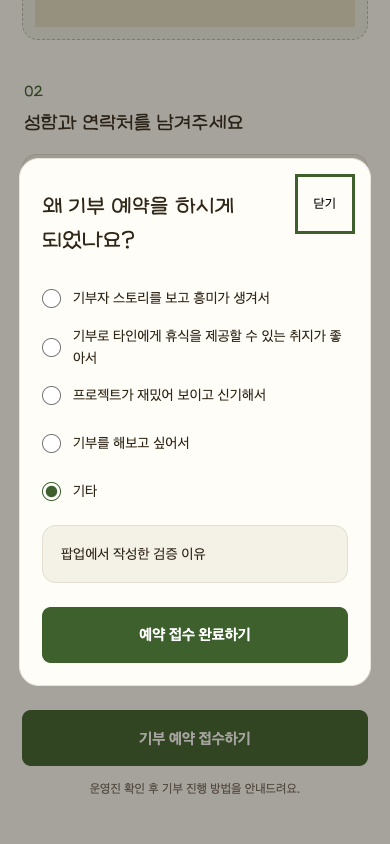
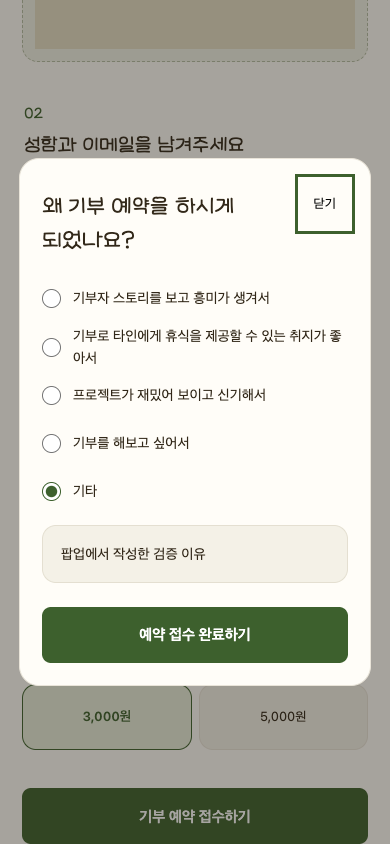
[feat] 이야기 작성 안내와 이메일 연락처 적용

Changed region(s): [[0.0308, 0.8009, 0.9538, 1.0], [0.0615, 0.0924, 0.6154, 0.1848], [0.0923, 0.0308, 0.9231, 0.0616]]

diff --git a/apps/web/src/components/reservation-form.tsx b/apps/web/src/components/reservation-form.tsx
@@ -1,7 +1,6 @@
 "use client";
 /* eslint-disable @next/next/no-img-element */
 import { ActivityTracker } from "./activity-tracker";
-import Link from "next/link";
 import { useEffect, useRef, useState } from "react";
 import { activityReporter, trackActivity } from "@/lib/activity-client";
 import { byteLength, STORY_MAX_BYTES } from "@/lib/story";
@@ -64,14 +63,14 @@ export function ReservationForm({ sourceStoryId }: { sourceStoryId?: string }) {
     } catch (e) { reportActivity("reservation_failure"); setReasonError(e instanceof Error ? e.message : "예약을 접수하지 못했어요. 입력한 내용은 유지됩니다. 다시 시도해주세요."); }
     finally { locked.current = false; setBusy(false); }
   }
-  if (done) return <section className="reservation-success"><ActivityTracker storyId={sourceStoryId} /><span className="eyebrow">당신의 마음을 잘 받았어요</span><h1>기부 예약이 접수됐어요.</h1><p>남겨주신 이야기는 운영진이 확인할게요.<br />결제는 진행되지 않았으며,<br />기부 진행 방법은 남겨주신 휴대폰번호로 안내드릴게요.</p><Link href={sourceStoryId ? `/stories/${sourceStoryId}` : "/"} className="button primary">이야기로 돌아가기</Link></section>;
-  return <section className="reservation-page"><ActivityTracker storyId={sourceStoryId} /><Link className="back-link" href={sourceStoryId ? `/stories/${sourceStoryId}` : "/"}>← 이야기로 돌아가기</Link><div className="reservation-heading"><span className="eyebrow">다음 사람의 쉼을 위해</span><h1>기부 예약</h1><p>당신의 이야기도 한 자리 펼쳐주세요.<br />지금은 예약만 접수하며 결제는 진행되지 않아요.</p></div>
+  if (done) return <section className="reservation-success"><ActivityTracker storyId={sourceStoryId} /><span className="eyebrow">당신의 마음을 잘 받았어요</span><h1>기부 예약이 접수됐어요.</h1><p>남겨주신 이야기는 운영진이 확인할게요.<br />결제는 진행되지 않았어요.</p><a href={sourceStoryId ? `/stories/${sourceStoryId}` : "/"} className="button primary">이야기로 돌아가기</a></section>;
+  return <section className="reservation-page"><ActivityTracker storyId={sourceStoryId} /><a className="back-link" href={sourceStoryId ? `/stories/${sourceStoryId}` : "/"}>← 이야기로 돌아가기</a><div className="reservation-heading"><span className="eyebrow">다음 사람의 쉼을 위해</span><h1>기부 예약</h1><p>당신의 이야기도 한 자리 펼쳐주세요.<br />지금은 예약만 접수하며 결제는 진행되지 않아요.</p></div>
     <form ref={mainForm} onSubmit={askReason} onChange={() => { requestId.current = ""; }}><fieldset disabled={busy} className="reservation-fields">
-      <fieldset className="reservation-question"><legend><span>01</span> 돗자리에 남길 스토리를 작성해주세요</legend><label><span className="sr-only">제목</span><input name="title" maxLength={80} placeholder="제목" required /></label><label><span className="sr-only">스토리</span><textarea aria-label="스토리" name="story" value={text} onChange={(e) => setText(e.target.value)} placeholder="당신의 이야기를 들려주세요" rows={5} required aria-describedby="reservation-bytes" /><small id="reservation-bytes" className={`byte-counter ${byteLength(text) > STORY_MAX_BYTES ? "error-message" : ""}`}>{byteLength(text)} / {STORY_MAX_BYTES}바이트</small></label><label className="photo-upload">{preview ? <img src={preview} alt="선택한 사진 미리보기" /> : <span className="photo-upload-copy"><strong>＋</strong>사진 추가<small>JPG, PNG, WebP · 한 장 · 최대 5MB</small></span>}<span className="sr-only">사진 추가</span><input aria-label="사진 추가" name="photo" type="file" accept="image/jpeg,image/png,image/webp" required onChange={(e) => { const file = e.target.files?.[0]; if (file) trackActivity("photo_selected"); setPreview(file ? URL.createObjectURL(file) : ""); }} /></label></fieldset>
-      <fieldset className="reservation-question"><legend><span>02</span> 성함과 연락처를 남겨주세요</legend><label><span className="sr-only">성함</span><input name="displayName" autoComplete="name" maxLength={40} placeholder="성함" value={isAnonymous ? "익명" : displayName} onChange={(e) => setDisplayName(e.target.value)} disabled={isAnonymous} required={!isAnonymous} /></label><label className="anonymous-option"><input type="checkbox" name="isAnonymous" value="true" checked={isAnonymous} onChange={(e) => setIsAnonymous(e.target.checked)} />익명</label><label><span className="sr-only">휴대폰번호</span><input name="phone" type="tel" autoComplete="tel" maxLength={20} placeholder="휴대폰번호" required /></label></fieldset>
+      <fieldset className="reservation-question"><legend><span>01</span> 돗자리에 남길 이야기를 들려주세요</legend><div id="story-guidance" className="story-guidance"><p>어떤 이야기를 담을지 고민된다면 아래 질문을 천천히 떠올려보세요. 꼭 질문에 맞추지 않아도 괜찮아요.</p><ul><li>고마움을 전하거나 기억하고 싶은 대상이 있나요?</li><li>다른 사람들과 나누고 싶은 나만의 이야기가 있나요?</li><li>이 돗자리를 펼칠 사람에게 어떤 마음을 건네고 싶나요?</li></ul></div><label><span className="sr-only">마음을 담은 한 줄</span><input name="title" maxLength={80} placeholder="마음을 담은 한 줄" required /></label><label><span className="sr-only">스토리</span><textarea aria-label="스토리" name="story" value={text} onChange={(e) => setText(e.target.value)} placeholder="당신의 이야기를 들려주세요" rows={5} required aria-describedby="story-guidance reservation-bytes" /><small id="reservation-bytes" className={`byte-counter ${byteLength(text) > STORY_MAX_BYTES ? "error-message" : ""}`}>{byteLength(text)} / {STORY_MAX_BYTES}바이트</small></label><label className="photo-upload">{preview ? <img src={preview} alt="선택한 사진 미리보기" /> : <span className="photo-upload-copy"><strong>＋</strong>사진 추가<small>JPG, PNG, WebP · 한 장 · 최대 5MB</small></span>}<span className="sr-only">사진 추가</span><input aria-label="사진 추가" name="photo" type="file" accept="image/jpeg,image/png,image/webp" required onChange={(e) => { const file = e.target.files?.[0]; if (file) trackActivity("photo_selected"); setPreview(file ? URL.createObjectURL(file) : ""); }} /></label></fieldset>
+      <fieldset className="reservation-question"><legend><span>02</span> 성함과 이메일을 남겨주세요</legend><label><span className="sr-only">성함</span><input name="displayName" autoComplete="name" maxLength={40} placeholder="성함" value={isAnonymous ? "익명" : displayName} onChange={(e) => setDisplayName(e.target.value)} disabled={isAnonymous} required={!isAnonymous} /></label><label className="anonymous-option"><input type="checkbox" name="isAnonymous" value="true" checked={isAnonymous} onChange={(e) => setIsAnonymous(e.target.checked)} />익명</label><label><span className="sr-only">이메일</span><input name="email" type="email" autoComplete="email" maxLength={254} placeholder="이메일" required /></label></fieldset>
       <fieldset className="reservation-question"><legend><span>03</span> 결제방법을 선택해주세요</legend><p className="field-description">나중에 이용하고 싶은 방법을 선택해주세요.</p><div className="payment-options">{Object.entries(paymentMethods).map(([value, label]) => <label key={value}><input type="radio" name="paymentMethod" value={value} required /><span>{label}</span></label>)}</div></fieldset>
       <fieldset className="reservation-question"><legend><span>04</span> 결제예정 금액을 선택해주세요</legend><div className="payment-options amount-options">{reservationAmounts.map(amount => <label key={amount}><input name="amount" type="radio" value={amount} required /><span>{amount.toLocaleString("ko-KR")}원</span></label>)}</div></fieldset>
-      {error && <p role="alert" className="error-message">{error}</p>}<button className="button primary reservation-submit" onClick={() => trackActivity("reservation_submit_click")} disabled={busy || byteLength(text) > STORY_MAX_BYTES}>{busy ? "예약을 접수하는 중…" : "기부 예약 접수하기"}</button><p className="reservation-footnote">운영진 확인 후 기부 진행 방법을 안내드려요.</p>
+      {error && <p role="alert" className="error-message">{error}</p>}<button className="button primary reservation-submit" onClick={() => trackActivity("reservation_submit_click")} disabled={busy || byteLength(text) > STORY_MAX_BYTES}>{busy ? "예약을 접수하는 중…" : "기부 예약 접수하기"}</button><p className="reservation-footnote">예약한 이야기는 운영진이 확인해요.</p>
     </fieldset></form>
     <dialog ref={reasonDialog} className="reservation-reason-dialog" aria-labelledby="reservation-reason-title" onCancel={event => { if (locked.current) event.preventDefault(); }}>
       <div className="section-heading"><h2 id="reservation-reason-title">왜 기부 예약을 하시게 되었나요?</h2><button type="button" className="text-button" aria-label="예약 이유 질문 닫기" disabled={busy} onClick={() => reasonDialog.current?.close()}>닫기</button></div>

diff --git a/apps/web/tests/reservation.integration.ts b/apps/web/tests/reservation.integration.ts
@@ -11,11 +11,15 @@ test("private reservations are idempotent, admin-reviewed and never expose conta
   const photo = await sharp({ create: { width: 400, height: 300, channels: 3, background: "#eee5cb" } }).jpeg().toBuffer();
   function form(amount = "3000") {
     const f = new FormData();
-    for (const [key,value] of Object.entries({ id, displayName: "검증용 예약자", phone: "010-0000-9923", reason: "other", reasonOther: "통합 검증", title: "검증용 예약 제목", story: "가".repeat(333) + "a", paymentMethod: "easy", amount })) f.set(key,value);
+    for (const [key,value] of Object.entries({ id, email: "donor@example.test", displayName: "검증용 예약자", reason: "other", reasonOther: "통합 검증", title: "검증용 예약 제목", story: "가".repeat(333) + "a", paymentMethod: "easy", amount })) f.set(key,value);
     f.set("photo", new Blob([new Uint8Array(photo)], { type: "image/jpeg" }), "test.jpg"); return f;
   }
-  const send = (path: string, method: string, body?: BodyInit, auth = false) => fetch(base+path, { method, headers: { origin: base, ...(auth ? { cookie } : {}) }, body });
+  const send = (path: string, method: string, body?: BodyInit, auth = false) => fetch(base+path, { method, headers: { origin: base, "x-forwarded-for": "192.0.2.26", ...(auth ? { cookie } : {}) }, body });
   try {
+    for (const email of ["", "invalid"]) {
+      const invalid = form(); invalid.set("email", email);
+      assert.equal((await send("/api/reservations", "POST", invalid)).status, 400);
+    }
     const oversized = form(); oversized.set("story", "가".repeat(333) + "ab");
     assert.equal((await send("/api/reservations", "POST", oversized)).status, 400);
     const requests = await Promise.all([send("/api/reservations", "POST", form()), send("/api/reservations", "POST", form())]);
@@ -23,10 +27,14 @@ test("private reservations are idempotent, admin-reviewed and never expose conta
     assert.equal((await pool.query("SELECT count(*)::int AS count FROM mat_reservations WHERE id=$1",[id])).rows[0].count,1);
     assert.equal((await send("/api/reservations","POST",form("5000"))).status,409);
     for (const amount of ["", "7200"]) assert.equal((await send("/api/reservations", "POST", form(amount))).status, 400);
+    const changedEmail = form(); changedEmail.set("email", "changed@example.test");
+    assert.equal((await send("/api/reservations", "POST", changedEmail)).status, 409);
     const second = form("5000"); second.set("id", secondId);
+    second.set("phone", "010-0000-9923");
     assert.equal((await send("/api/reservations", "POST", second)).status, 201);
+    assert.deepEqual((await pool.query("SELECT phone,email FROM mat_reservations WHERE id=ANY($1::uuid[])", [[id, secondId]])).rows, [{ phone: null, email: "donor@example.test" }, { phone: null, email: "donor@example.test" }]);
     assert.deepEqual((await pool.query("SELECT amount FROM mat_reservations WHERE id=ANY($1::uuid[]) ORDER BY amount", [[id, secondId]])).rows.map(r => r.amount), [3000,5000]);
-    await pool.query("INSERT INTO mat_reservations(id,display_name,phone,reason,reason_other,title,story,photo,payment_method,amount) SELECT $1,display_name,phone,reason,reason_other,title,story,photo,payment_method,7200 FROM mat_reservations WHERE id=$2", [legacyId,id]);
+    await pool.query("INSERT INTO mat_reservations(id,display_name,phone,reason,reason_other,title,story,photo,payment_method,amount) SELECT $1,display_name,'01000009923',reason,reason_other,title,story,photo,payment_method,7200 FROM mat_reservations WHERE id=$2", [legacyId,id]);
     assert.equal((await fetch(base+`/api/admin/reservations/${id}/photo`)).status,401);
     assert.equal((await send(`/api/admin/reservations/${id}`,"DELETE")).status,401);
     assert.equal((await fetch(base+"/admin").then(r=>r.text())).includes("01000009923"),false);
@@ -34,12 +42,12 @@ test("private reservations are idempotent, admin-reviewed and never expose conta
     const login = await send("/api/admin/session","POST",JSON.stringify({password:process.env.ADMIN_PASSWORD}));
     assert.equal(login.status,200);cookie=login.headers.get("set-cookie")!.split(";")[0];
     assert.equal((await send(`/api/admin/reservations/${id}/photo`,"GET",undefined,true)).status,200);
-    const admin = await send("/admin","GET",undefined,true).then(r=>r.text());assert.ok(admin.includes("01000009923")); assert.ok(admin.includes("7,200")); assert.ok(admin.includes("3,000")); assert.ok(admin.includes("5,000"));
+    const admin = await send("/admin","GET",undefined,true).then(r=>r.text());assert.ok(admin.includes("donor@example.test")); assert.ok(admin.includes("01000009923")); assert.ok(admin.includes("7,200")); assert.ok(admin.includes("3,000")); assert.ok(admin.includes("5,000"));
     const promote = () => {const f=new FormData();for(const[k,v]of Object.entries({reservationId:id,matNumber:"9903",matSize:"large",displayName:"검증용 예약자",title:"검증용 예약 제목",story:"가".repeat(333)+"a",paymentVerified:"true",published:"true"}))f.set(k,v);return f;};
     const created = await send("/api/admin/stories","POST",promote(),true);assert.equal(created.status,201);storyId=(await created.json()).id;
     assert.equal((await send("/api/admin/stories","POST",promote(),true)).status,409);
     const publicPage = await fetch(base+`/stories/${storyId}`).then(r=>r.text());
-    assert.ok(publicPage.includes("검증용 예약 제목"));assert.equal(publicPage.includes("01000009923"),false);
+    assert.ok(publicPage.includes("검증용 예약 제목"));assert.equal(publicPage.includes("01000009923"),false);assert.equal(publicPage.includes("donor@example.test"),false);
     const deviceId=randomUUID();
     const votes=await Promise.all(["like","empathy","sad","cheer","like","cheer"].map(kind=>send(`/api/stories/${storyId}/reaction`,"POST",JSON.stringify({deviceId,action:"react",kind}))));
     for(const r of votes)assert.equal(r.status,200);

diff --git a/apps/web/src/components/admin-reservations.tsx b/apps/web/src/components/admin-reservations.tsx
@@ -19,8 +19,8 @@ export function AdminReservations({ reservations, onSelect }: { reservations: Re
     } catch (e) { setError(e instanceof Error ? e.message : "예약을 삭제하지 못했습니다."); }
     finally { setBusy(false); }
   }
-  return <section className="reservation-inbox" aria-labelledby="reservation-inbox-title"><div className="section-heading"><h2 id="reservation-inbox-title">기부 예약 접수함</h2><span className="count">{reservations.length}건</span></div><p className="section-description">예약은 아직 결제된 기부가 아닙니다. 연락 후 입금과 내용을 확인해주세요.</p>{error && <p className="error-message" role="alert">{error}</p>}
-    {reservations.map((r) => <details className="reservation-entry" key={r.id}><summary><span className={`status-badge ${r.story_id ? "public" : ""}`}>{r.story_id ? "이야기 등록됨" : "접수"}</span><strong>{r.display_name} · {r.amount.toLocaleString("ko-KR")}원 예약</strong><span>{r.title}</span></summary><div className="reservation-entry-body"><dl><dt>휴대폰</dt><dd><a href={`tel:${r.phone}`}>{r.phone}</a></dd><dt>예약 이유</dt><dd>{reasons[r.reason]}{r.reason === "other" && ` · ${r.reason_other}`}</dd><dt>희망 결제방법</dt><dd>{paymentMethods[r.payment_method]}</dd><dt>접수일</dt><dd>{new Date(r.created_at).toLocaleString("ko-KR", { timeZone: "Asia/Seoul" })}</dd></dl><img src={`/api/admin/reservations/${r.id}/photo`} alt="예약에 첨부된 사진" loading="lazy" /><h3>{r.title}</h3><p className="reservation-story">{r.story}</p>{r.source_story_id && <Link className="text-link" href={`/stories/${r.source_story_id}`} target="_blank">예약 전 읽은 이야기 ↗</Link>}{!r.story_id ? <button className="button secondary" onClick={() => onSelect(r)}>이 예약으로 이야기 등록</button> : <p className="notice">연결된 이야기는 아래 이야기 목록에서 수정할 수 있습니다.</p>}
+  return <section className="reservation-inbox" aria-labelledby="reservation-inbox-title"><div className="section-heading"><h2 id="reservation-inbox-title">기부 예약 접수함</h2><span className="count">{reservations.length}건</span></div><p className="section-description">예약은 아직 결제된 기부가 아닙니다. 입금과 내용을 확인해주세요.</p>{error && <p className="error-message" role="alert">{error}</p>}
+    {reservations.map((r) => <details className="reservation-entry" key={r.id}><summary><span className={`status-badge ${r.story_id ? "public" : ""}`}>{r.story_id ? "이야기 등록됨" : "접수"}</span><strong>{r.display_name} · {r.amount.toLocaleString("ko-KR")}원 예약</strong><span>{r.title}</span></summary><div className="reservation-entry-body"><dl>{r.email && <><dt>이메일</dt><dd><a href={`mailto:${r.email}`}>{r.email}</a></dd></>}{r.phone && <><dt>휴대폰</dt><dd><a href={`tel:${r.phone}`}>{r.phone}</a></dd></>}<dt>예약 이유</dt><dd>{reasons[r.reason]}{r.reason === "other" && ` · ${r.reason_other}`}</dd><dt>희망 결제방법</dt><dd>{paymentMethods[r.payment_method]}</dd><dt>접수일</dt><dd>{new Date(r.created_at).toLocaleString("ko-KR", { timeZone: "Asia/Seoul" })}</dd></dl><img src={`/api/admin/reservations/${r.id}/photo`} alt="예약에 첨부된 사진" loading="lazy" /><h3>{r.title}</h3><p className="reservation-story">{r.story}</p>{r.source_story_id && <Link className="text-link" href={`/stories/${r.source_story_id}`} target="_blank">예약 전 읽은 이야기 ↗</Link>}{!r.story_id ? <button className="button secondary" onClick={() => onSelect(r)}>이 예약으로 이야기 등록</button> : <p className="notice">연결된 이야기는 아래 이야기 목록에서 수정할 수 있습니다.</p>}
     <div className="delete-area">{confirm === r.id ? <><p>연락처와 예약 사진을 포함한 예약 자료를 삭제합니다. 이미 등록한 공개 이야기는 유지됩니다.</p><button disabled={busy} className="danger-button" onClick={() => remove(r.id)}>예약 영구 삭제 확인</button><button disabled={busy} className="text-button" onClick={() => setConfirm("")}>취소</button></> : <button className="danger-button" onClick={() => setConfirm(r.id)}>예약 삭제</button>}</div></div></details>)}
     {!reservations.length && <p className="empty-state">아직 접수된 기부 예약이 없습니다.</p>}
   </section>;

diff --git a/apps/web/tests/browser/reservation-anonymous.spec.ts b/apps/web/tests/browser/reservation-anonymous.spec.ts
@@ -9,6 +9,12 @@ test("anonymous selection preserves drafts and saves an anonymous reservation", 
   let reservationId = "";
   try {
     await page.goto("/reserve");
+    await expect(page.locator(".story-guidance li")).toHaveCount(3);
+    await expect(page.locator(".reservation-question legend").first()).toContainText("돗자리에 남길 이야기를 들려주세요");
+    await expect(page.getByRole("textbox", { name: "스토리", exact: true })).toHaveAttribute("aria-describedby", "story-guidance reservation-bytes");
+    const email = page.getByRole("textbox", { name: "이메일", exact: true });
+    await expect(email).toHaveAttribute("type", "email");
+    await expect(email).toHaveAttribute("required");
     const name = page.getByRole("textbox", { name: "성함", exact: true });
     const anonymous = page.getByRole("checkbox", { name: "익명", exact: true });
     await expect(anonymous).not.toBeChecked();
@@ -32,8 +38,9 @@ test("anonymous selection preserves drafts and saves an anonymous reservation", 
     await page.setViewportSize({ width: 390, height: 844 });
     await page.evaluate(() => document.fonts.ready);
     await page.screenshot({ path: fileURLToPath(new URL("../../../../docs/screenshots/reservation-anonymous-mobile.png", import.meta.url)), fullPage: true });
-    await page.getByRole("textbox", { name: "휴대폰번호", exact: true }).fill("010-0000-9905");
-    await page.getByRole("textbox", { name: "제목", exact: true }).fill("익명 신청 검증");
+    await expect(page.locator('input[name="phone"]')).toHaveCount(0);
+    await email.fill("anonymous@example.test");
+    await page.getByRole("textbox", { name: "마음을 담은 한 줄", exact: true }).fill("익명 신청 검증");
     await page.getByRole("textbox", { name: "스토리", exact: true }).fill("검증용 이야기입니다.");
     const photo = await sharp({ create: { width: 20, height: 20, channels: 3, background: "#eee5cb" } }).jpeg().toBuffer();
     await page.getByLabel("사진 추가", { exact: true }).setInputFiles({ name: "test.jpg", mimeType: "image/jpeg", buffer: photo });
@@ -45,6 +52,7 @@ test("anonymous selection preserves drafts and saves an anonymous reservation", 
       const body = route.request().postData() || "";
       expect(body).toContain('name="isAnonymous"');
       expect(body).not.toContain('name="displayName"');
+      expect(body).not.toContain('name="phone"');
       return route.fulfill({ status: 503, contentType: "application/json", body: JSON.stringify({ error: "검증용 접수 오류" }) });
     });
     await page.getByRole("button", { name: "예약 접수 완료하기" }).click();
@@ -58,12 +66,14 @@ test("anonymous selection preserves drafts and saves an anonymous reservation", 
     expect(response.status()).toBe(201);
     reservationId = (await response.json()).id;
     await expect(page.getByRole("heading", { name: "기부 예약이 접수됐어요." })).toBeVisible();
-    const saved = (await pool.query("SELECT display_name,phone FROM mat_reservations WHERE id=$1", [reservationId])).rows[0];
-    expect(saved).toEqual({ display_name: "익명", phone: "01000009905" });
+    const saved = (await pool.query("SELECT display_name,phone,email FROM mat_reservations WHERE id=$1", [reservationId])).rows[0];
+    expect(saved).toEqual({ display_name: "익명", phone: null, email: "anonymous@example.test" });
     await page.goto("/admin");
     await page.getByLabel("비밀번호", { exact: true }).fill(process.env.ADMIN_PASSWORD!);
     await page.getByRole("button", { name: "관리자 페이지로 이동" }).click();
     await page.getByText("익명 · 3,000원 예약", { exact: true }).click();
+    await expect(page.locator('a[href^="tel:"]')).toHaveCount(0);
+    await expect(page.getByRole("link", { name: "anonymous@example.test" })).toHaveAttribute("href", "mailto:anonymous@example.test");
     await page.getByRole("button", { name: "이 예약으로 이야기 등록" }).click();
     await expect(page.getByLabel("공개 이름")).toHaveValue("익명");
   } finally {

diff --git a/apps/web/tests/reservation.test.ts b/apps/web/tests/reservation.test.ts
@@ -3,7 +3,7 @@ import assert from "node:assert/strict";
 import { randomUUID } from "node:crypto";
 import { reservationDetailsInput, reservationInput } from "../src/lib/reservation";
 import { activityEvent } from "../src/lib/activity";
-const details = { displayName: "검증용", phone: "010-0000-0015", title: "검증", story: "스토리", paymentMethod: "deposit", amount: "3000" };
+const details = { email: "donor@example.test", displayName: "검증용", title: "검증", story: "스토리", paymentMethod: "deposit", amount: "3000" };
 test("only offered reservation amounts are accepted by the shared client/server schema", () => {
   for (const amount of [3000,5000,"3000","5000"]) assert.equal(reservationDetailsInput.safeParse({ ...details, amount }).success, true);
   for (const amount of [undefined,"",0,1,7200,3000.5,-3000,"other"]) assert.equal(reservationDetailsInput.safeParse({ ...details, amount }).success, false);
@@ -24,13 +24,13 @@ test("reason-open analytics reports only the step and never the response", () =>
   }
 });
 
-const valid = { ...details, id: randomUUID(), reason: "rest", displayName: "신청자", phone: "010-0000-0000" };
+const valid = { ...details, id: randomUUID(), reason: "rest", displayName: "신청자" };
 
 test("anonymous reservations normalize omitted, empty and submitted names", () => {
   for (const displayName of [undefined, "", "실명 입력", "a".repeat(41)]) {
     const result = reservationInput.parse({ ...valid, isAnonymous: "true", displayName });
     assert.equal(result.displayName, "익명");
-    assert.equal(result.phone, "01000000000");
+    assert.equal("phone" in result, false);
   }
 });
 
@@ -43,11 +43,25 @@ test("named and legacy reservations still require a valid name", () => {
   }
 });
 
-test("anonymous selection rejects invalid flags and still requires contact and story", () => {
+test("anonymous selection rejects invalid flags and still requires story", () => {
   for (const isAnonymous of ["on", "yes", true, 1, null]) {
     assert.equal(reservationInput.safeParse({ ...valid, isAnonymous }).success, false);
   }
-  for (const invalid of [{ phone: "" }, { story: "" }, { title: "" }]) {
+  for (const invalid of [{ story: "" }, { title: "" }]) {
     assert.equal(reservationInput.safeParse({ ...valid, isAnonymous: "true", ...invalid }).success, false);
   }
+});
+
+test("new submissions omit phone and strip legacy supplied contact fields", () => {
+  for (const phone of [undefined, "", "010-0000-0000", "invalid"]) {
+    const result = reservationInput.parse({ ...valid, phone });
+    assert.equal("phone" in result, false);
+  }
+});
+
+test("email is required, validated and trimmed, including anonymous submissions", () => {
+  for (const email of [undefined, "", "invalid", "a".repeat(243) + "@example.test"]) {
+    assert.equal(reservationInput.safeParse({ ...valid, isAnonymous: "true", email }).success, false);
+  }
+  assert.equal(reservationInput.parse({ ...valid, email: " donor@example.test " }).email, "donor@example.test");
 });

diff --git a/apps/web/tests/browser/story.spec.ts b/apps/web/tests/browser/story.spec.ts
@@ -77,10 +77,11 @@ test("admin registration, publication, mobile reading and one-device reaction", 
     await expect(page.getByText("왜 기부 예약을 하시게 되었나요?", { exact: true })).not.toBeVisible();
     const legends = await page.locator(".reservation-fields > .reservation-question > legend").allTextContents();
     expect(legends.map(t => t.slice(0,2))).toEqual(["01","02","03","04"]);
-    expect(legends[0]).toContain("스토리"); expect(legends[1]).toContain("성함");
+    expect(legends[0]).toContain("이야기"); expect(legends[1]).toContain("성함");
     await page.getByRole("textbox", { name: "성함", exact: true }).fill("검증용 웹 예약자");
-    await page.getByRole("textbox", { name: "휴대폰번호", exact: true }).fill("010-0000-9904");
-    await page.getByRole("textbox", { name: "제목", exact: true }).fill("다음 사람에게도 편안한 쉼을");
+    await expect(page.locator('input[name="phone"]')).toHaveCount(0);
+    await page.getByRole("textbox", { name: "이메일", exact: true }).fill("named@example.test");
+    await page.getByRole("textbox", { name: "마음을 담은 한 줄", exact: true }).fill("다음 사람에게도 편안한 쉼을");
     await page.getByRole("textbox", { name: "스토리", exact: true }).fill("가".repeat(333) + "ab");
     await expect(page.getByRole("button", { name: "기부 예약 접수하기" })).toBeDisabled();
     await page.getByRole("textbox", { name: "스토리", exact: true }).fill("가".repeat(333) + "a");
@@ -134,10 +135,11 @@ test("admin registration, publication, mobile reading and one-device reaction", 
     expect(requests).toHaveLength(2);
     const sentId = (body: string) => /name="id"\r?\n\r?\n([^\r\n]+)/.exec(body)?.[1];
     expect(sentId(requests[0])).toBeTruthy(); expect(sentId(requests[0])).toBe(sentId(requests[1]));
-    reservationId=(await pool.query("SELECT id FROM mat_reservations WHERE phone='01000009904'")).rows[0].id;
+    reservationId = sentId(requests[1])!;
+    expect((await pool.query("SELECT phone FROM mat_reservations WHERE id=$1", [reservationId])).rows[0].phone).toBeNull();
     await page.goto("/admin");
     await page.getByText("검증용 웹 예약자 · 3,000원 예약", {exact:true}).click();
-    await expect(page.getByRole("link", {name:"01000009904"})).toBeVisible();
+    await expect(page.locator('a[href^="tel:"]')).toHaveCount(0);
     await page.getByRole("button", {name:"이 예약으로 이야기 등록"}).click();
     await expect(page.getByLabel("공개 이름")).toHaveValue("검증용 웹 예약자");
     await expect(page.locator('input[name="photo"]')).not.toHaveAttribute("required");

diff --git a/apps/web/src/app/api/reservations/route.ts b/apps/web/src/app/api/reservations/route.ts
@@ -15,13 +15,13 @@ export async function POST(request: Request) {
     const d = parsed.data;
     const photo = await readPhoto(form);
     if (!photo) throw new HttpError(400, "사진 한 장을 올려주세요.");
-    const inserted = await database().query(`INSERT INTO mat_reservations(id,display_name,phone,reason,reason_other,title,story,photo,payment_method,amount,source_story_id)
+    const inserted = await database().query(`INSERT INTO mat_reservations(id,display_name,email,reason,reason_other,title,story,photo,payment_method,amount,source_story_id)
       VALUES($1,$2,$3,$4,$5,$6,$7,$8,$9,$10,(SELECT id FROM mat_stories WHERE id=$11 AND published AND payment_verified))
-      ON CONFLICT (id) DO NOTHING RETURNING id`, [d.id, d.displayName, d.phone, d.reason, d.reason === "other" ? d.reasonOther : "", d.title, d.story, photo, d.paymentMethod, d.amount, d.sourceStoryId || null]);
+      ON CONFLICT (id) DO NOTHING RETURNING id`, [d.id, d.displayName, d.email, d.reason, d.reason === "other" ? d.reasonOther : "", d.title, d.story, photo, d.paymentMethod, d.amount, d.sourceStoryId || null]);
     if (!inserted.rowCount) {
-      const existing = await database().query(`SELECT 1 FROM mat_reservations WHERE id=$1 AND display_name=$2 AND phone=$3 AND reason=$4
+      const existing = await database().query(`SELECT 1 FROM mat_reservations WHERE id=$1 AND display_name=$2 AND email=$3 AND reason=$4
         AND reason_other=$5 AND title=$6 AND story=$7 AND photo=$8 AND payment_method=$9 AND amount=$10`,
-      [d.id, d.displayName, d.phone, d.reason, d.reason === "other" ? d.reasonOther : "", d.title, d.story, photo, d.paymentMethod, d.amount]);
+      [d.id, d.displayName, d.email, d.reason, d.reason === "other" ? d.reasonOther : "", d.title, d.story, photo, d.paymentMethod, d.amount]);
       if (!existing.rowCount) throw new HttpError(409, "이 접수번호로 이미 다른 내용이 접수됐습니다. 새로고침 후 확인해주세요.");
     }
     return Response.json({ id: d.id }, { status: 201, headers: { "Cache-Control": "no-store" } });

diff --git a/apps/web/src/lib/reservation.ts b/apps/web/src/lib/reservation.ts
@@ -19,8 +19,8 @@ function normalizeAnonymous(input: unknown) {
 const reservationDetails = z.object({
   isAnonymous: z.enum(["true", "false"]).default("false"),
   displayName: z.string().trim().min(1, "성함을 입력해주세요.").max(40),
-  phone: z.string().transform((s) => s.replace(/[\s-]/g, "")).pipe(z.string().regex(/^01[016789]\d{7,8}$/, "휴대폰번호를 확인해주세요.")),
-  title: storyTitle.refine((s) => s.length > 0, "제목을 입력해주세요."),
+  email: z.string().trim().email("이메일 주소를 확인해주세요.").max(254, "이메일은 254자 이내로 입력해주세요."),
+  title: storyTitle.refine((s) => s.length > 0, "마음을 담은 한 줄을 입력해주세요."),
   story: storyText,
   paymentMethod: z.enum(["deposit", "easy", "transfer"], { error: "희망 결제방법을 선택해주세요." }),
   amount: z.coerce.number().pipe(z.union([z.literal(3000), z.literal(5000)], { error: "3,000원 또는 5,000원을 선택해주세요." })),
@@ -33,7 +33,7 @@ export const reservationInput = z.preprocess(normalizeAnonymous, reservationDeta
   reasonOther: z.string().trim().max(300).default(""),
 }).refine((s) => s.reason !== "other" || !!s.reasonOther, { message: "기타 이유를 입력해주세요.", path: ["reasonOther"] }));
 export type Reservation = {
-  id: string; display_name: string; phone: string; reason: keyof typeof reasons; reason_other: string;
+  id: string; display_name: string; phone: string | null; email: string | null; reason: keyof typeof reasons; reason_other: string;
   title: string; story: string; payment_method: keyof typeof paymentMethods; amount: number;
   source_story_id: string | null; story_id: string | null; created_at: string;
 };

diff --git a/apps/web/tests/activity.test.ts b/apps/web/tests/activity.test.ts
@@ -6,7 +6,7 @@ const story = randomUUID();
 const event = { id: randomUUID(), visitId: randomUUID(), sessionId: randomUUID(), occurredAt: new Date().toISOString(), path: `/stories/${story}`, storyId: story, name: "page_view", properties: {} };
 test("strict activity allowlist excludes private fields, URLs and event properties", () => {
   assert.ok(activityEvent.safeParse(event).success);
-  for (const key of ["phone", "displayName", "story", "photo", "authorization", "referrer"]) {
+  for (const key of ["phone", "email", "displayName", "story", "photo", "authorization", "referrer"]) {
     assert.equal(activityEvent.safeParse({ ...event, [key]: "private" }).success, false);
     assert.equal(activityEvent.safeParse({ ...event, properties: { [key]: "private" } }).success, false);
   }

diff --git a/apps/web/src/app/globals.css b/apps/web/src/app/globals.css
@@ -73,6 +73,10 @@ label{display:block;font-size:14px;font-weight:600}input,textarea,select{display
 .photo-upload-copy strong{display:block;font-size:32px;font-weight:400}
 .photo-upload img{max-height:280px;width:100%;object-fit:contain;padding:12px}
 .photo-upload input{position:absolute;inset:0;width:100%;height:100%;opacity:0;margin:0;cursor:pointer}
+.story-guidance{color:var(--muted);font-size:14px;line-height:1.7;margin-bottom:18px}
+.story-guidance p{margin:0 0 10px}
+.story-guidance ul{margin:0;padding-left:20px}
+.story-guidance li+li{margin-top:6px}
 .field-description{color:var(--muted);font-size:13px;margin-bottom:12px}
 .payment-options{display:grid;grid-template-columns:repeat(3,minmax(0,1fr));gap:10px}
 .payment-options label{position:relative;min-width:0}

diff --git a/apps/web/src/lib/reservations.ts b/apps/web/src/lib/reservations.ts
@@ -2,6 +2,6 @@ import { database } from "./db";
 import type { Reservation } from "./reservation";
 
 export async function listReservations(): Promise<Reservation[]> {
-  const result = await database().query(`SELECT id,display_name,phone,reason,reason_other,title,story,payment_method,amount,source_story_id,story_id,created_at FROM mat_reservations ORDER BY created_at DESC LIMIT 1000`);
+  const result = await database().query(`SELECT id,display_name,phone,email,reason,reason_other,title,story,payment_method,amount,source_story_id,story_id,created_at FROM mat_reservations ORDER BY created_at DESC LIMIT 1000`);
   return result.rows.map((r) => ({ ...r, created_at: r.created_at.toISOString() }));
 }

diff --git a/docs/MAT-WEB.md b/docs/MAT-WEB.md
@@ -7,17 +7,17 @@
 - `/`: 공개·입금 확인된 이야기 중 하나를 무작위 선택해 고유 주소로 307 이동. 후보가 여러 개면 직전 선택을 제외하며, 없으면 `/stories`의 빈 안내를 표시한다.
 - `/stories`: 전체 공개 이야기 목록
 - `/stories/:id`: 기존 고정 주소로 제목·사진·본문 → 네 가지 반응 → 기부 예약 → 사용 안내
-- `/reserve?from=:id`: 제목·본문·사진 → 성함·휴대폰번호 → 희망 결제방법 → 3,000원/5,000원 선택 → 접수 버튼 → 예약 이유 팝업 → 최종 접수
+- `/reserve?from=:id`: 마음을 담은 한 줄·본문·사진 → 성함·이메일 → 희망 결제방법 → 3,000원/5,000원 선택 → 접수 버튼 → 예약 이유 팝업 → 최종 접수
 - `/about`: 별도 소개 화면 없이 메인 `/`으로 영구 이동
 - `/admin`: 페이지 하단 링크 → 공유 비밀번호 → 예약 접수함 및 이야기 관리
 
-예약은 결제가 아니다. 결제방법은 무통장입금·간편결제·계좌이체 중 희망하는 방법을 기록하며 PG나 간편결제 API를 실행하지 않는다. 새 예약 금액은 3,000원 또는 5,000원만 선택할 수 있으며 클라이언트·서버에서 동일하게 검증한다. 기존 예약의 자유 입력 금액은 변경하지 않는다. 접수 후 운영진이 연락한다. 개인정보 수집 안내·동의 UI는 사용자 요청으로 생략했다.
+예약은 결제가 아니다. 결제방법은 무통장입금·간편결제·계좌이체 중 희망하는 방법을 기록하며 PG나 간편결제 API를 실행하지 않는다. 새 예약 금액은 3,000원 또는 5,000원만 선택할 수 있으며 클라이언트·서버에서 동일하게 검증한다. 기존 예약의 자유 입력 금액은 변경하지 않는다. 접수된 이야기는 운영진이 확인한다. 개인정보 수집 안내·동의 UI는 사용자 요청으로 생략했다.
 
-신청 페이지에서 `익명`을 체크하면 성함 입력을 비활성화하고 서버에서 이름을 `익명`으로 저장한다. 체크 해제 시 입력했던 성함을 복원한다. 익명 신청도 휴대폰번호는 필요하며 관리자 이야기 등록 시 공개 이름에 `익명`이 채워진다. 예약 제목은 1~80자이며 기존 제목 없는 이야기는 이름으로 대체 제목을 표시한다. 본문은 UTF-8 기준 1000바이트 이내다. 한글은 보통 3바이트, 이모지는 4바이트다. 사진은 JPG/PNG/WebP 정지 이미지 한 장, 5MB 이하이며 실제 디코딩 후 긴 변 1600px 이하 JPEG로 저장한다. 방향을 보정하고 메타데이터를 제거한다.
+신청 페이지에서 `익명`을 체크하면 성함 입력을 비활성화하고 서버에서 이름을 `익명`으로 저장한다. 체크 해제 시 입력했던 성함을 복원한다. 신규 신청은 이메일이 필수이며 전화번호를 수집하지 않는다. 관리자 이야기 등록 시 공개 이름에 `익명`이 채워진다. 예약 제목은 1~80자이며 기존 제목 없는 이야기는 이름으로 대체 제목을 표시한다. 본문은 UTF-8 기준 1000바이트 이내다. 한글은 보통 3바이트, 이모지는 4바이트다. 사진은 JPG/PNG/WebP 정지 이미지 한 장, 5MB 이하이며 실제 디코딩 후 긴 변 1600px 이하 JPEG로 저장한다. 방향을 보정하고 메타데이터를 제거한다.
 
 ## 운영
 
-1. 관리자 접수함에서 예약 금액·이유·휴대폰·희망 결제방법·이야기·사진을 확인한다.
+1. 관리자 접수함에서 예약 이메일·금액·이유·희망 결제방법·이야기·사진을 확인한다.
 2. 기부 진행을 안내한 뒤 ‘이 예약으로 이야기 등록’을 누른다. 이름·제목·본문·사진은 자동으로 채워진다.
 3. 돗자리 번호와 크기를 배정하고 실제 입금을 별도로 확인한다. 예약 금액만으로 입금 완료 처리하지 않는다.
 4. 공개 내용을 검토하고 ‘입금 확인 완료’ 및 ‘내용 검토 완료 · 웹에 공개’를 선택한다.
@@ -31,7 +31,7 @@
 
 Next.js App Router / React / TypeScript, PostgreSQL, sharp를 사용한다. 이야기와 예약 사진은 PostgreSQL에 저장한다. Railway 임시 파일시스템을 저장소로 사용하지 않는다.
 
-- 예약 연락처·이유·결제방법·금액은 관리자에게만 반환한다. 예약 사진 API도 관리자 인증을 요구한다.
+- 예약 이메일·기존 전화번호와 예약 이유·결제방법·금액은 관리자에게만 반환한다. 예약 사진 API도 관리자 인증을 요구한다.
 - 공개 조회는 입금 확인과 공개 승인이 모두 있는 이야기만 반환한다. 사진 응답은 `private, no-store`다.
 - 네 반응은 종류별로 선택하고 같은 버튼을 다시 눌러 취소할 수 있다. 취소 요청은 해당 브라우저·이야기·종류의 기록만 삭제하며 반복 요청도 같은 취소 상태를 유지한다. 요청 실패 후 서버 상태를 다시 조회하고 조회도 실패하면 새로고침 전 반응 입력을 막는다. 활동 로그의 `action`으로 선택(`react`)과 취소(`remove`)를 구분하며 기존 action 없는 기록은 유지한다. localStorage UUID를 HMAC으로 변환한 `(story_id, device_hash, kind)` 고유 키로 중복을 막는다.
 - 기존 공감 기록은 `empathy`로 유지한다. 브라우저 저장소 삭제·시크릿 모드·다른 브라우저는 별도 식별자가 된다.
@@ -87,7 +87,7 @@ node --env-file=../../.env.test ../../node_modules/@playwright/test/cli.js test
 
 - Figma 파일: `nEDJaJBFrdzBCa1WcgADHH`
 - `178:584`: 597×1578 기준 이야기 프레임. 로고 → 제목·사진·본문 카드 → 반응 4열 → 사용 안내 → 예약 CTA 순서를 적용한다.
-- `178:595`를 바탕으로 한 예약 화면은 #15 사용자 요청에 따라 제목·본문·사진 → 이름·휴대폰 → 결제방법 → 금액 선택 순서로 변경했다. 예약 이유는 접수 버튼 이후 별도 팝업에서 묻는다.
+- `178:595`를 바탕으로 한 예약 화면은 #15·#26 사용자 요청에 따라 마음을 담은 한 줄·본문·사진 → 이름·이메일 → 결제방법 → 금액 선택 순서로 변경했다. 예약 이유는 접수 버튼 이후 별도 팝업에서 묻는다.
 - 기존 종이색·녹색·갈색 테마, 이서윤체, 타이틀 SVG 및 `172:567`·`172:568` 크기 라벨은 유지한다. 회색 lo-fi 박스와 예시 이름·사진은 실제 디자인이나 운영 데이터로 사용하지 않는다.
 - 반응 아이콘은 Figma `195:629`·`195:633`·`195:637`·`195:642` 원본 렌더를 사용한다.
 - 고정 높이 대신 콘텐츠 길이에 따라 확장한다. 모바일에서는 여백을 줄이고 반응 4열·결제방법 3열을 유지한다. 독서와 입력 화면은 넓은 화면에서도 읽기 좋은 최대 너비를 둔다.
@@ -127,7 +127,7 @@ node --env-file=../../.env.test ../../node_modules/@playwright/test/cli.js test
 
 ### 예약 이유 팝업 (#15)
 
-초기 입력 화면에서는 예약 이유를 표시하지 않는다. 제목·스토리·사진·이름·연락처·결제방법·금액을 입력하고 **기부 예약 접수하기**를 누르면, 입력 검증을 거쳐 기존 예약 이유 선택지를 네이티브 dialog로 표시한다. 이유를 선택하고 **예약 접수 완료하기**를 눌러야 API 요청을 보낸다. 기타를 선택하면 추가 입력이 필수다.
+초기 입력 화면에서는 예약 이유를 표시하지 않는다. 마음을 담은 한 줄·스토리·사진·이름·이메일·결제방법·금액을 입력하고 **기부 예약 접수하기**를 누르면, 입력 검증을 거쳐 기존 예약 이유 선택지를 네이티브 dialog로 표시한다. 이유를 선택하고 **예약 접수 완료하기**를 눌러야 API 요청을 보낸다. 기타를 선택하면 추가 입력이 필수다.
 
 닫기/Escape는 앞서 입력한 내용과 사진·금액·이유를 유지하고 접수 버튼으로 포커스를 돌려준다. 접수 중에는 중복 클릭과 팝업 닫기를 막고, 실패하면 팝업에서 재시도할 수 있다. 내용을 바꾸지 않은 재시도는 같은 접수 UUID를 사용한다. 팝업 노출 자체를 예약 성공으로 기록하지 않는다.
 
@@ -146,3 +146,11 @@ node --env-file=../../.env.test ../../node_modules/@playwright/test/cli.js test
 메인 `/`는 서버에서 공개·입금 확인된 전체 스토리를 대상으로 무작위 선택한다. `last-home-story` 세션 쿠키(HttpOnly, SameSite=Lax, HTTPS에서는 Secure)로 직전 메인 선택을 기억하며, 후보가 두 개 이상이면 그 스토리를 제외한다. 쿠키를 차단하거나 삭제하면 반복 제외는 보장되지 않는다. 쿠키는 같은 브라우저에서 공유한다. 동시 접속은 각각 요청 시점의 쿠키를 기준으로 선택한다.
 
 307 응답에 `Cache-Control: private, no-store, max-age=0`을 적용한다. 사이트의 홈 링크는 미리 가져오기로 선택 쿠키가 바뀌지 않도록 일반 링크로 이동한다. 도착한 고유 주소의 새로고침과 공유는 같은 이야기를 유지하고, 메인으로 다시 접속할 때 새로 선택한다. 스토리가 하나면 계속 그 주소로, 없으면 `/stories`로 이동한다. DB 변경은 필요 없다.
+
+## 신청 이야기 작성 안내와 이메일 연락처
+
+신청 폼의 첫 질문은 “돗자리에 남길 이야기를 들려주세요”이며 작성 안내와 질문 3개를 제공한다. 제목 입력의 접근성 이름과 placeholder는 “마음을 담은 한 줄”로 표시한다. 제목 1~80자, 본문 UTF-8 1000바이트 제한은 유지한다.
+
+신규 신청은 전화번호 대신 이메일을 필수로 받는다. 이메일은 앞뒤 공백 제거 후 형식·최대 254자를 검증하며 익명 신청에도 필요하다. 신규 전화번호 입력·검증·저장은 하지 않으며 구버전 클라이언트가 보내는 `phone` 값도 저장에서 제외한다. `007_reservation_contact.sql`은 phone의 NOT NULL만 제거하고 nullable email 컬럼을 추가한다. 기존 연락처를 삭제·변경하거나 이메일을 임의로 채우지 않는다. 기존 번호 형식 CHECK는 유지한다. 이메일은 관리자 접수함의 mailto 링크로 제공하며, 기존 전화번호도 관리자에게 보존한다. 연락처가 없는 경우 빈 링크를 만들지 않는다. 공개 이야기·분석 로그에는 이메일을 포함하지 않는다.
+
+신규 예약 재시도는 이메일을 포함한 동일한 신청 내용으로 판단한다. 자동 이메일 발송이나 결제 연동을 추가하지 않는다. 완료 화면은 접수·미결제·운영진 확인 사실을 안내한다. 기존 예약에는 이메일이 없을 수 있으며, NULL phone이 생긴 뒤 NOT NULL 복원은 별도의 데이터 처리 결정이 필요하다.
